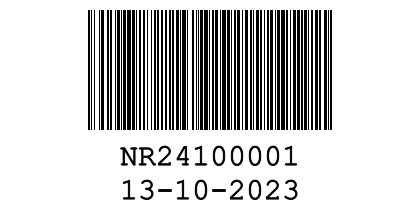
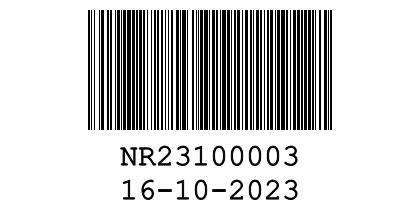
my pages

diff --git a/IBS/Repositories/BarcodeGenerationRepository.cs b/IBS/Repositories/BarcodeGenerationRepository.cs
@@ -249,19 +249,18 @@ namespace IBS.Repositories
             {
                 using (var conn1 = context.Database.GetDbConnection())
                 {
-                    using (OracleCommand cmd = new OracleCommand("GENERATE_Barcode_NO", (OracleConnection)conn1))
+                    using (OracleCommand cmd = new OracleCommand("New_BarcodeGenarate", (OracleConnection)conn1))
                     {
-                        var CURRENT_DATE = Convert.ToDateTime(BarcodeGenerate.CURRENT_DATE).ToString("MM/dd/yyyy");
+                       
                         cmd.CommandType = CommandType.StoredProcedure;
-                        cmd.Parameters.Add("in_lab_code", OracleDbType.Varchar2).Value = BarcodeGenerate.Region;
-                        cmd.Parameters.Add("in_transaction_date", OracleDbType.Date).Value = CURRENT_DATE;
-                        OracleParameter outParam = new OracleParameter("out_transaction_number", OracleDbType.Varchar2, 255);
+                        cmd.Parameters.Add("lab_code", OracleDbType.Varchar2).Value = BarcodeGenerate.Region;
+                        OracleParameter outParam = new OracleParameter("transaction_number", OracleDbType.Varchar2, 255);
                         outParam.Direction = ParameterDirection.Output;
                         cmd.Parameters.Add(outParam);
                         conn1.Open();
                         cmd.ExecuteNonQuery();
 
-                        BarcodeGenerate.BARCODE = cmd.Parameters["out_transaction_number"].Value.ToString();
+                        BarcodeGenerate.BARCODE = cmd.Parameters["transaction_number"].Value.ToString();
                     }
                 }
             }
